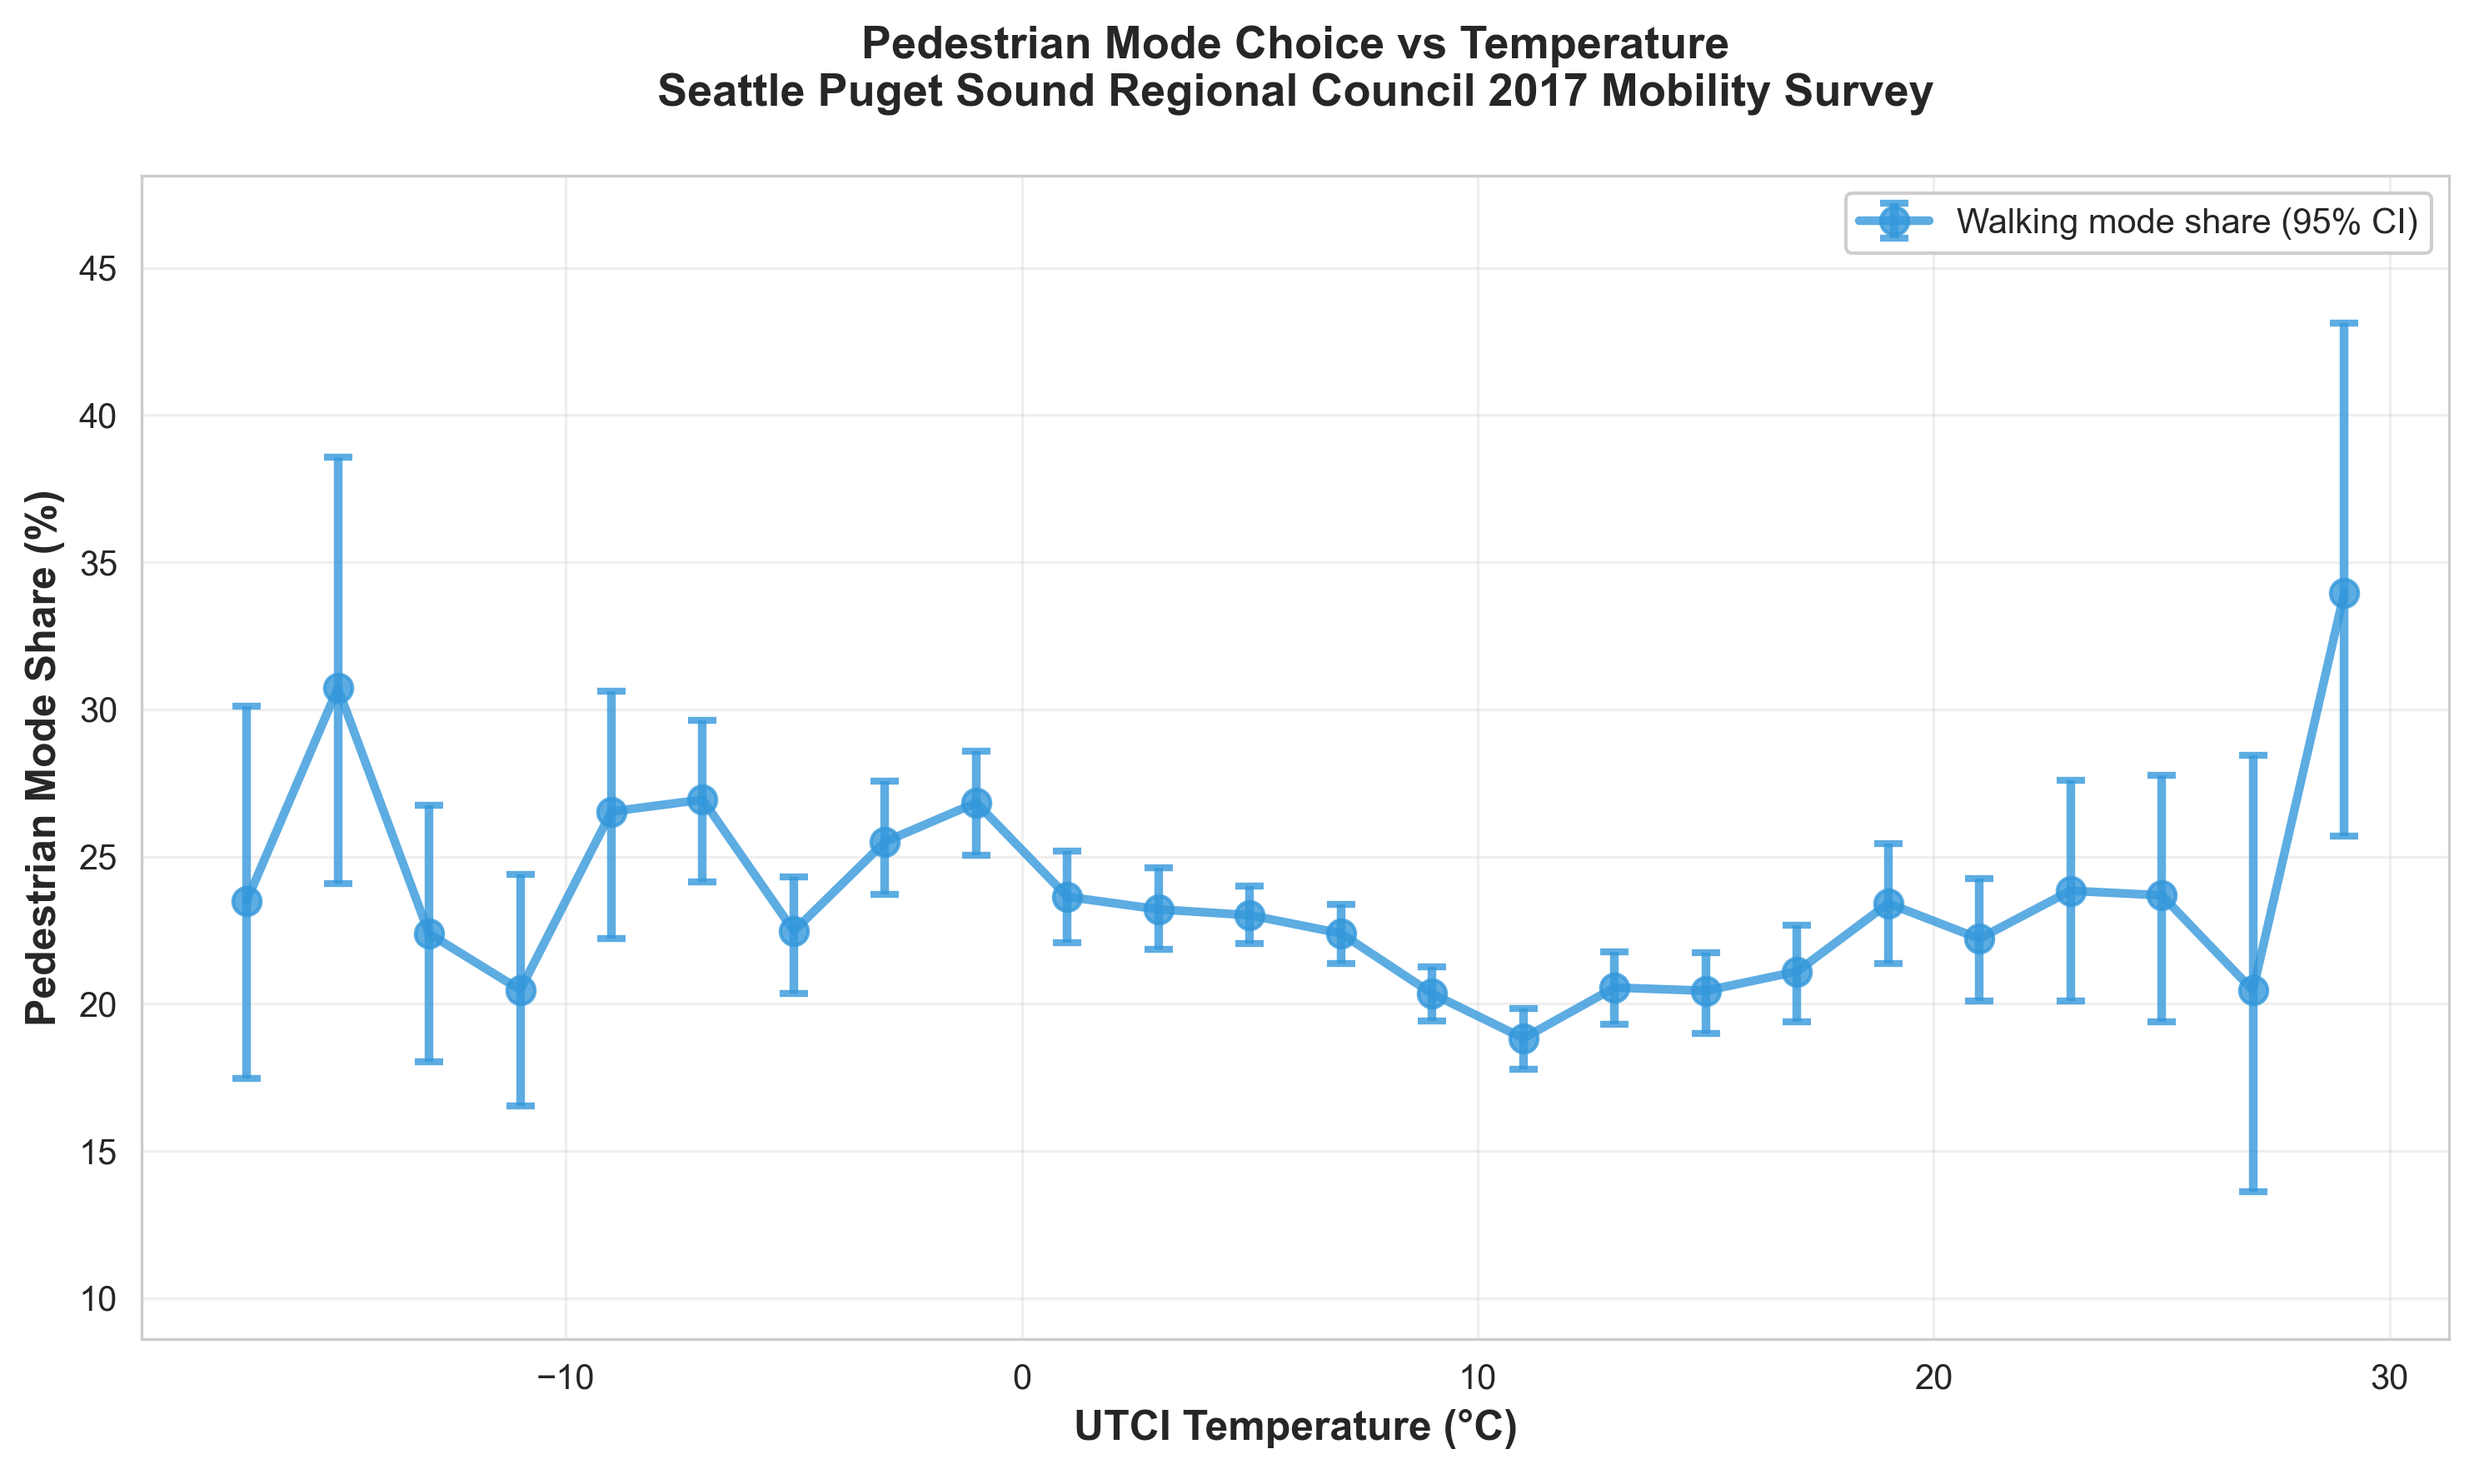
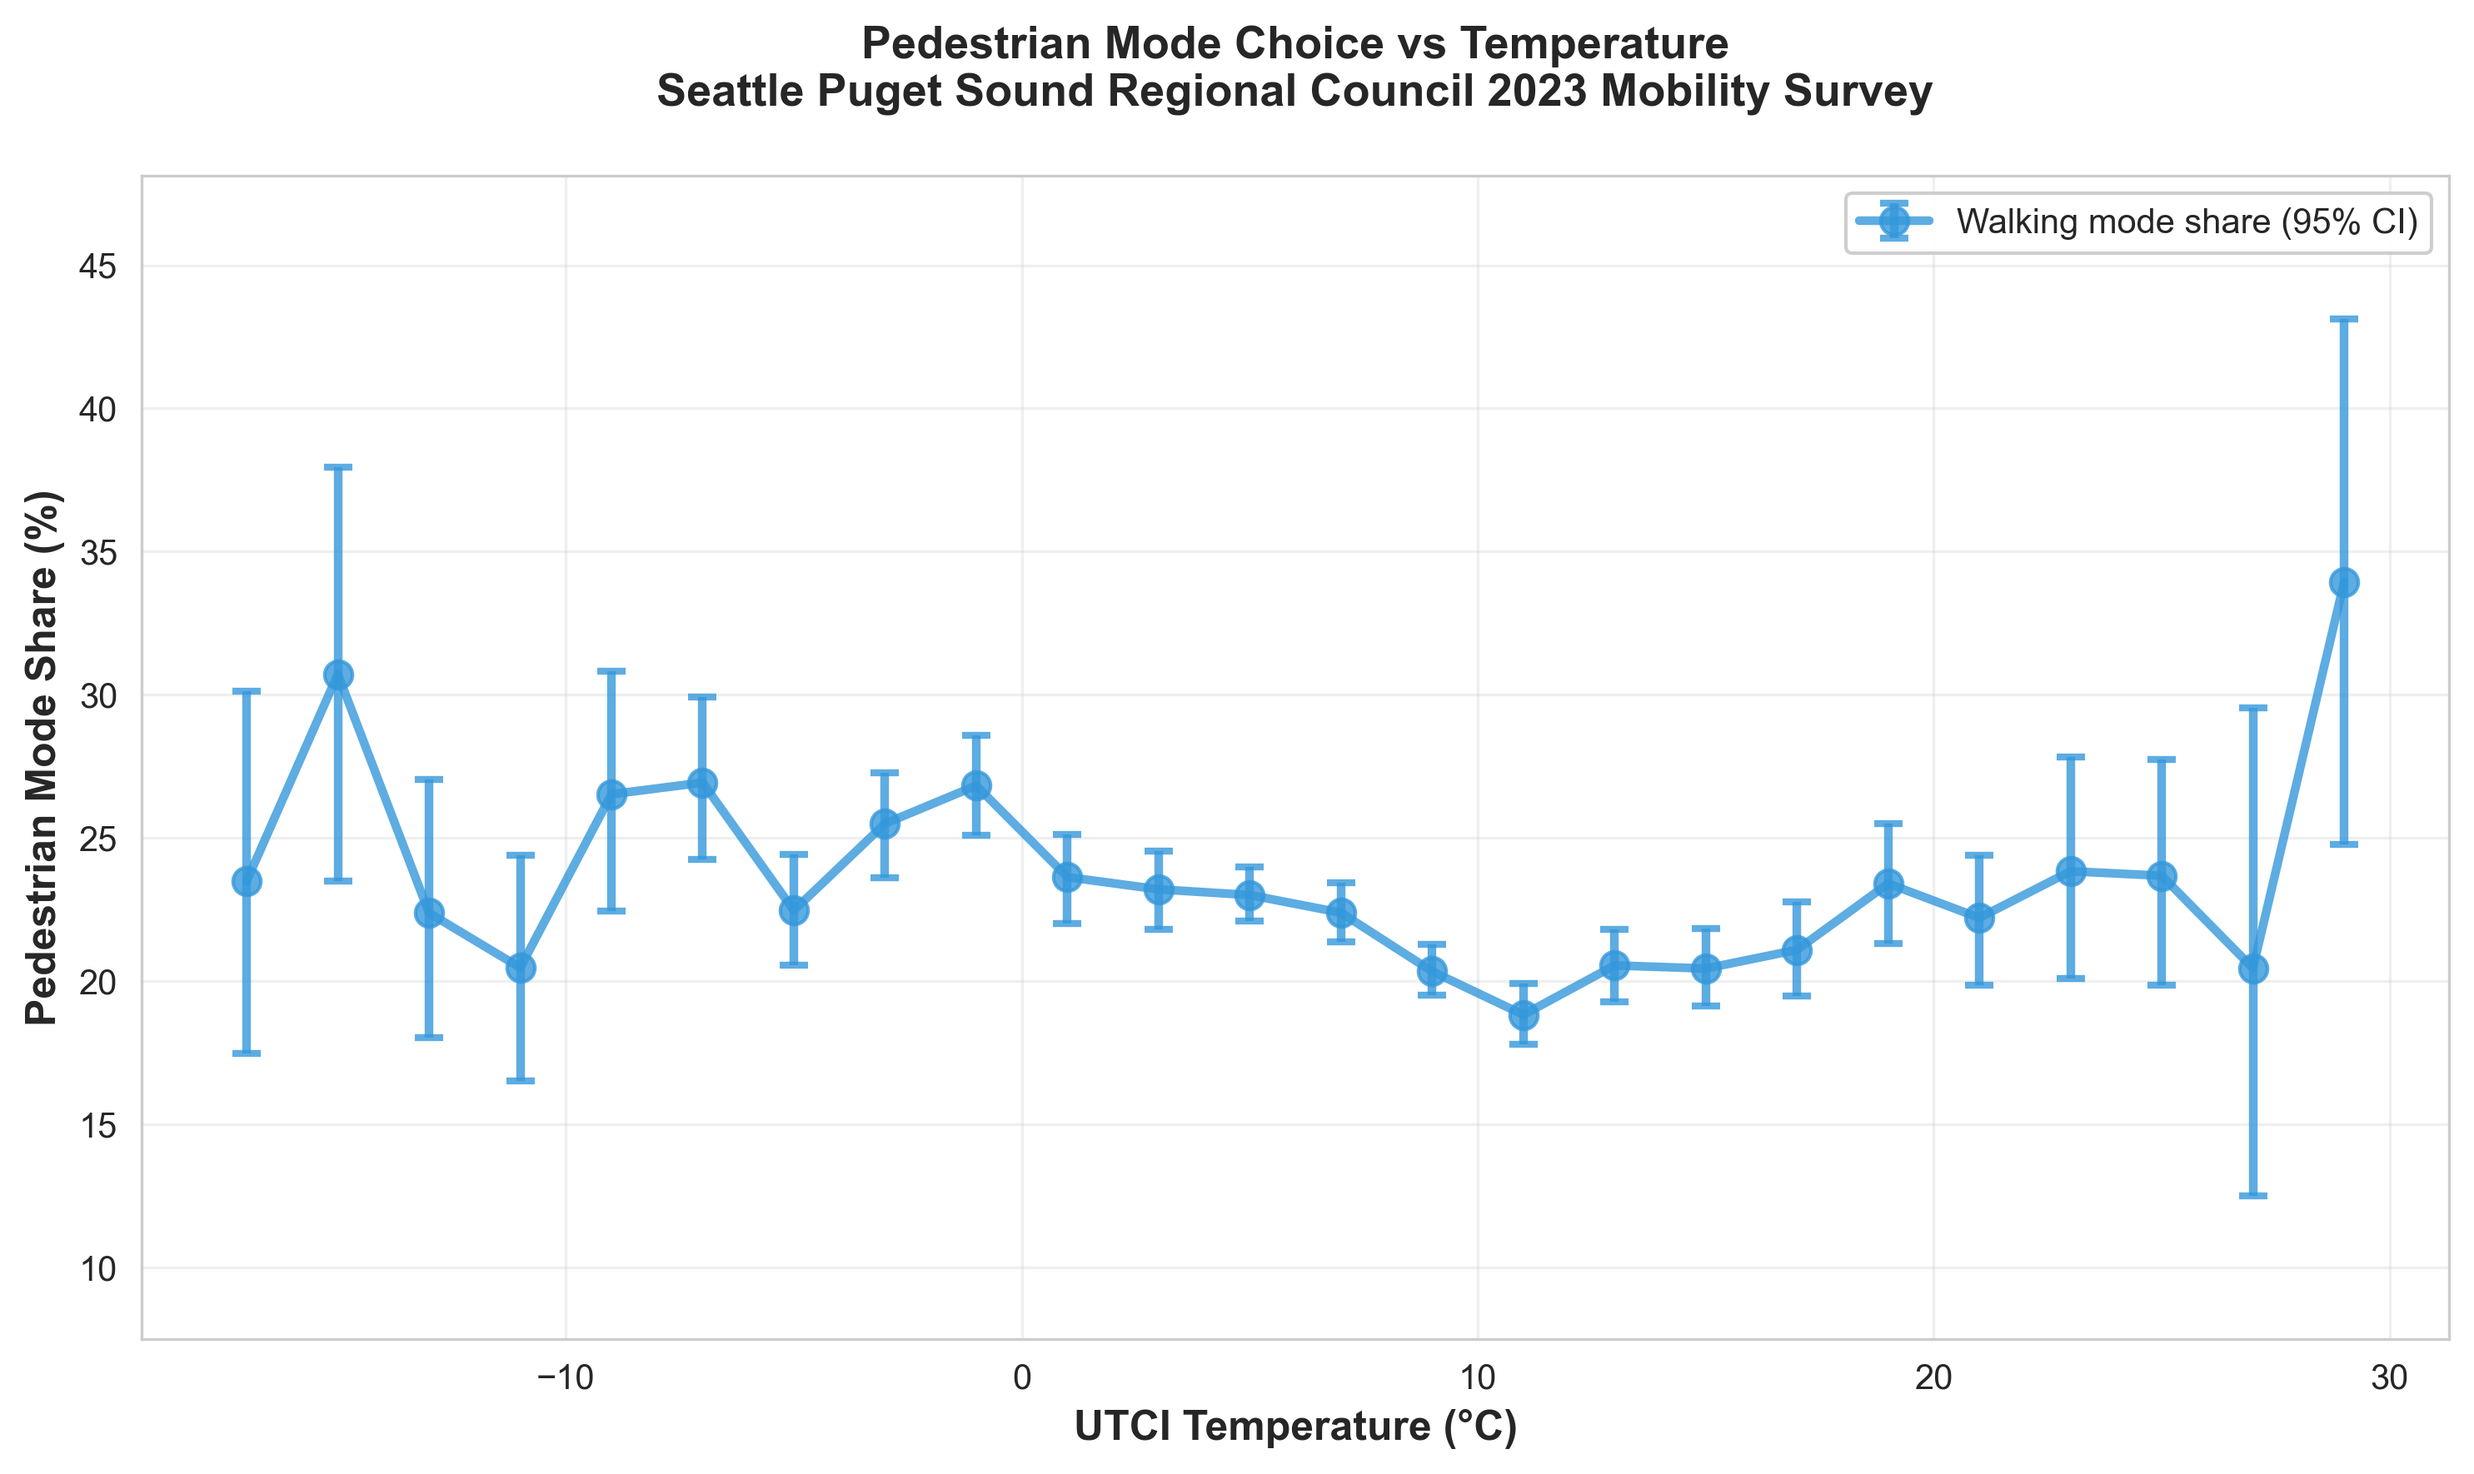
Fix pedestrian mode choice plot title: correct survey year to 2023
Changed title from "2017 Mobility Survey" to "2023 Mobility Survey" to
reflect actual data used in analysis.

Context: Original PSRC dataset contains multiple survey years (2017, 2019,
2021, 2023), but only 2023 data has populated travel_date fields. The
annotate_trips_with_utci.py script filters out trips without valid dates,
resulting in only 2023 data being retained (56,704 trips from April 4 -
June 12, 2023).

🤖 Generated with [Claude Code](https://claude.com/claude-code)

diff --git a/scripts/visualization/plot_pedestrian_mode_choice_vs_temp.py b/scripts/visualization/plot_pedestrian_mode_choice_vs_temp.py
@@ -122,7 +122,7 @@ ax.errorbar(
 # Formatting
 ax.set_xlabel('UTCI Temperature (°C)', fontsize=12, fontweight='bold')
 ax.set_ylabel('Pedestrian Mode Share (%)', fontsize=12, fontweight='bold')
-ax.set_title('Pedestrian Mode Choice vs Temperature\nSeattle Puget Sound Regional Council 2017 Mobility Survey',
+ax.set_title('Pedestrian Mode Choice vs Temperature\nSeattle Puget Sound Regional Council 2023 Mobility Survey',
              fontsize=13, fontweight='bold', pad=20)
 ax.legend(loc='best', fontsize=10, framealpha=0.95)
 ax.grid(True, alpha=0.3)
